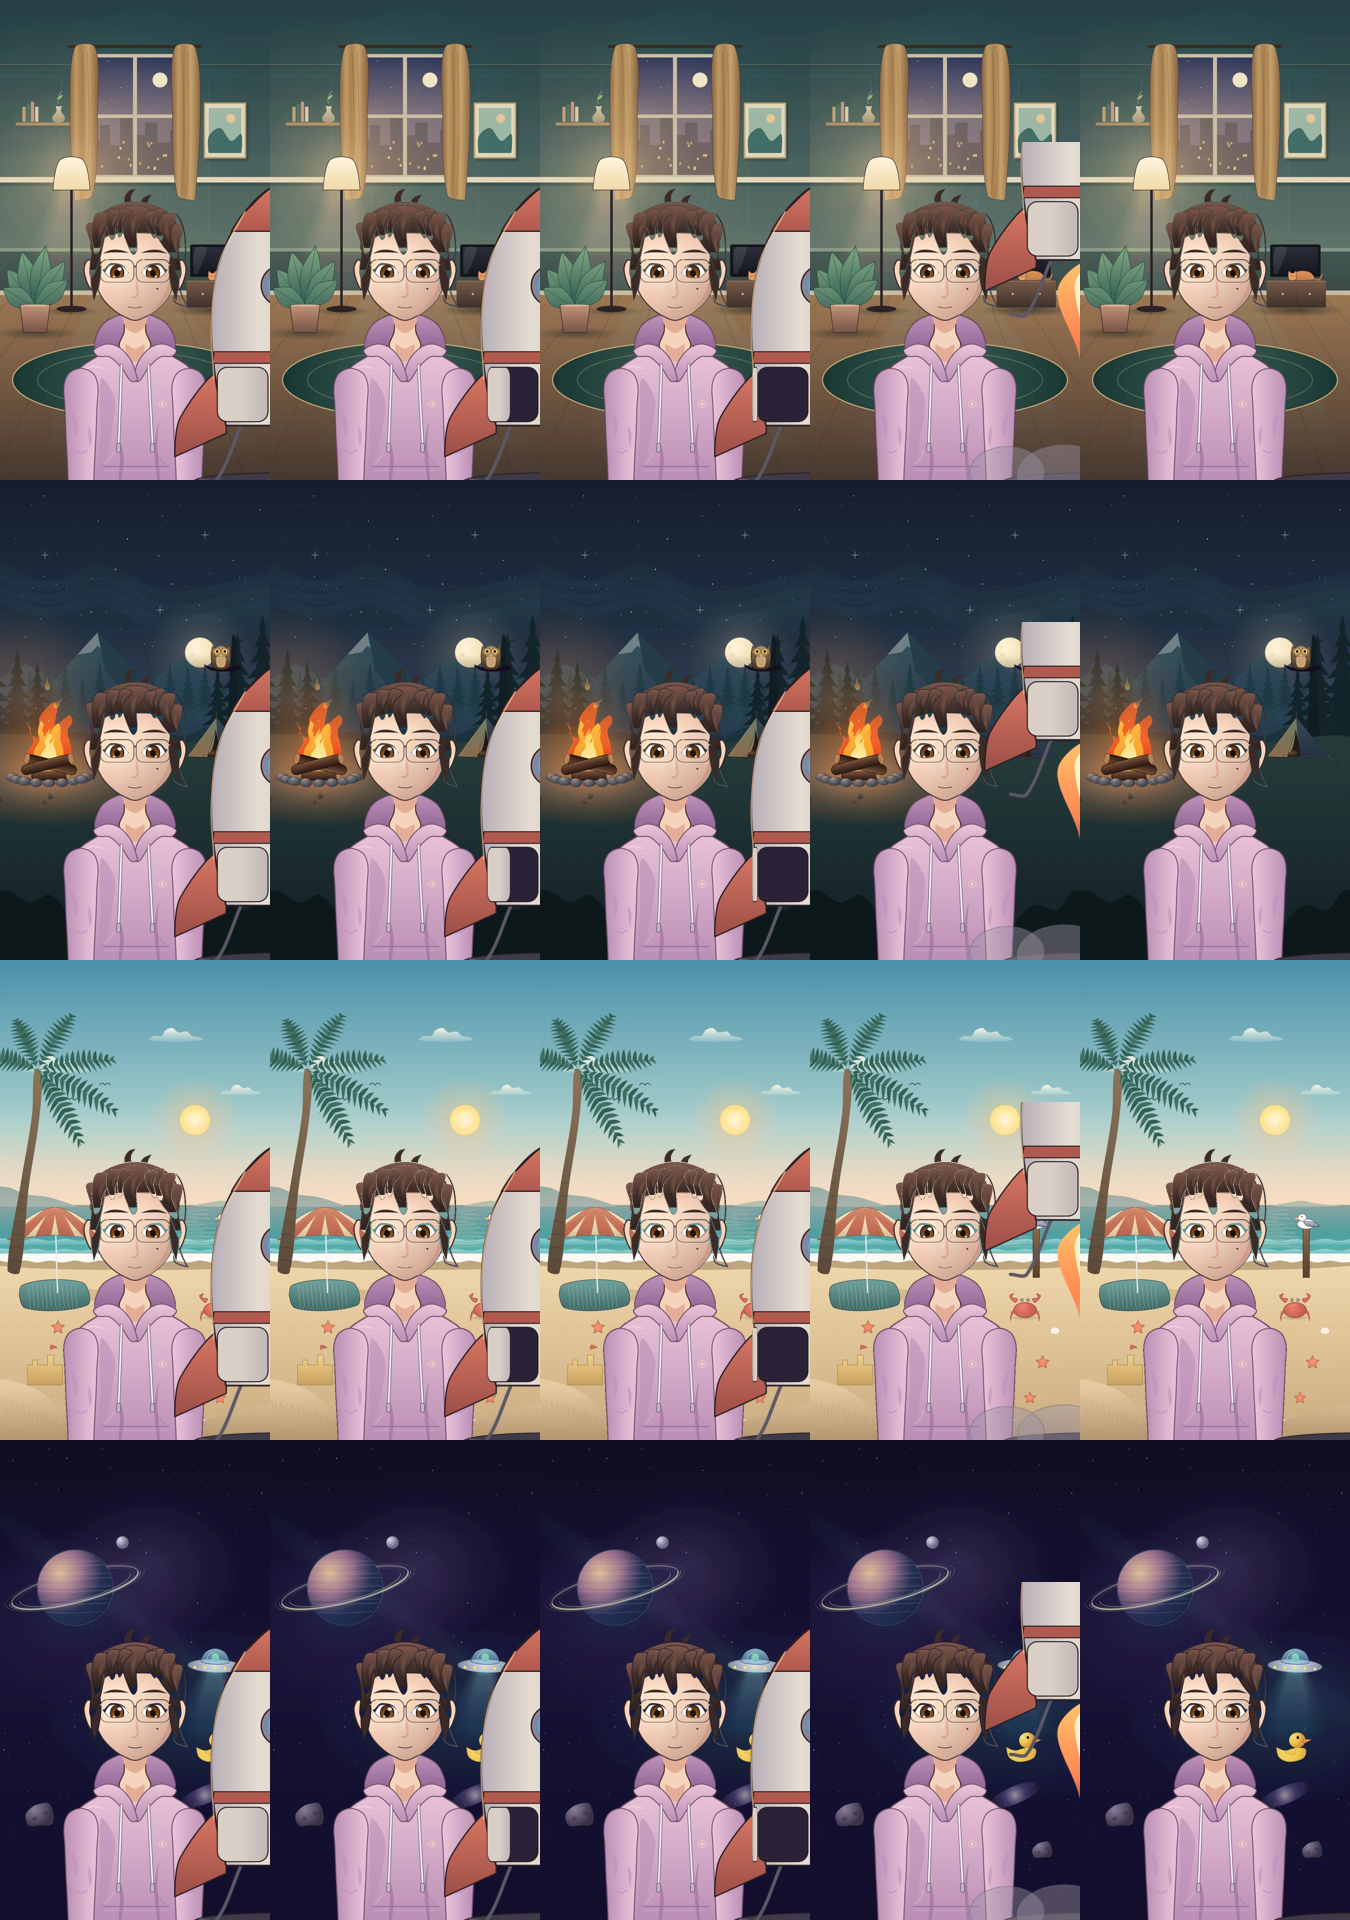
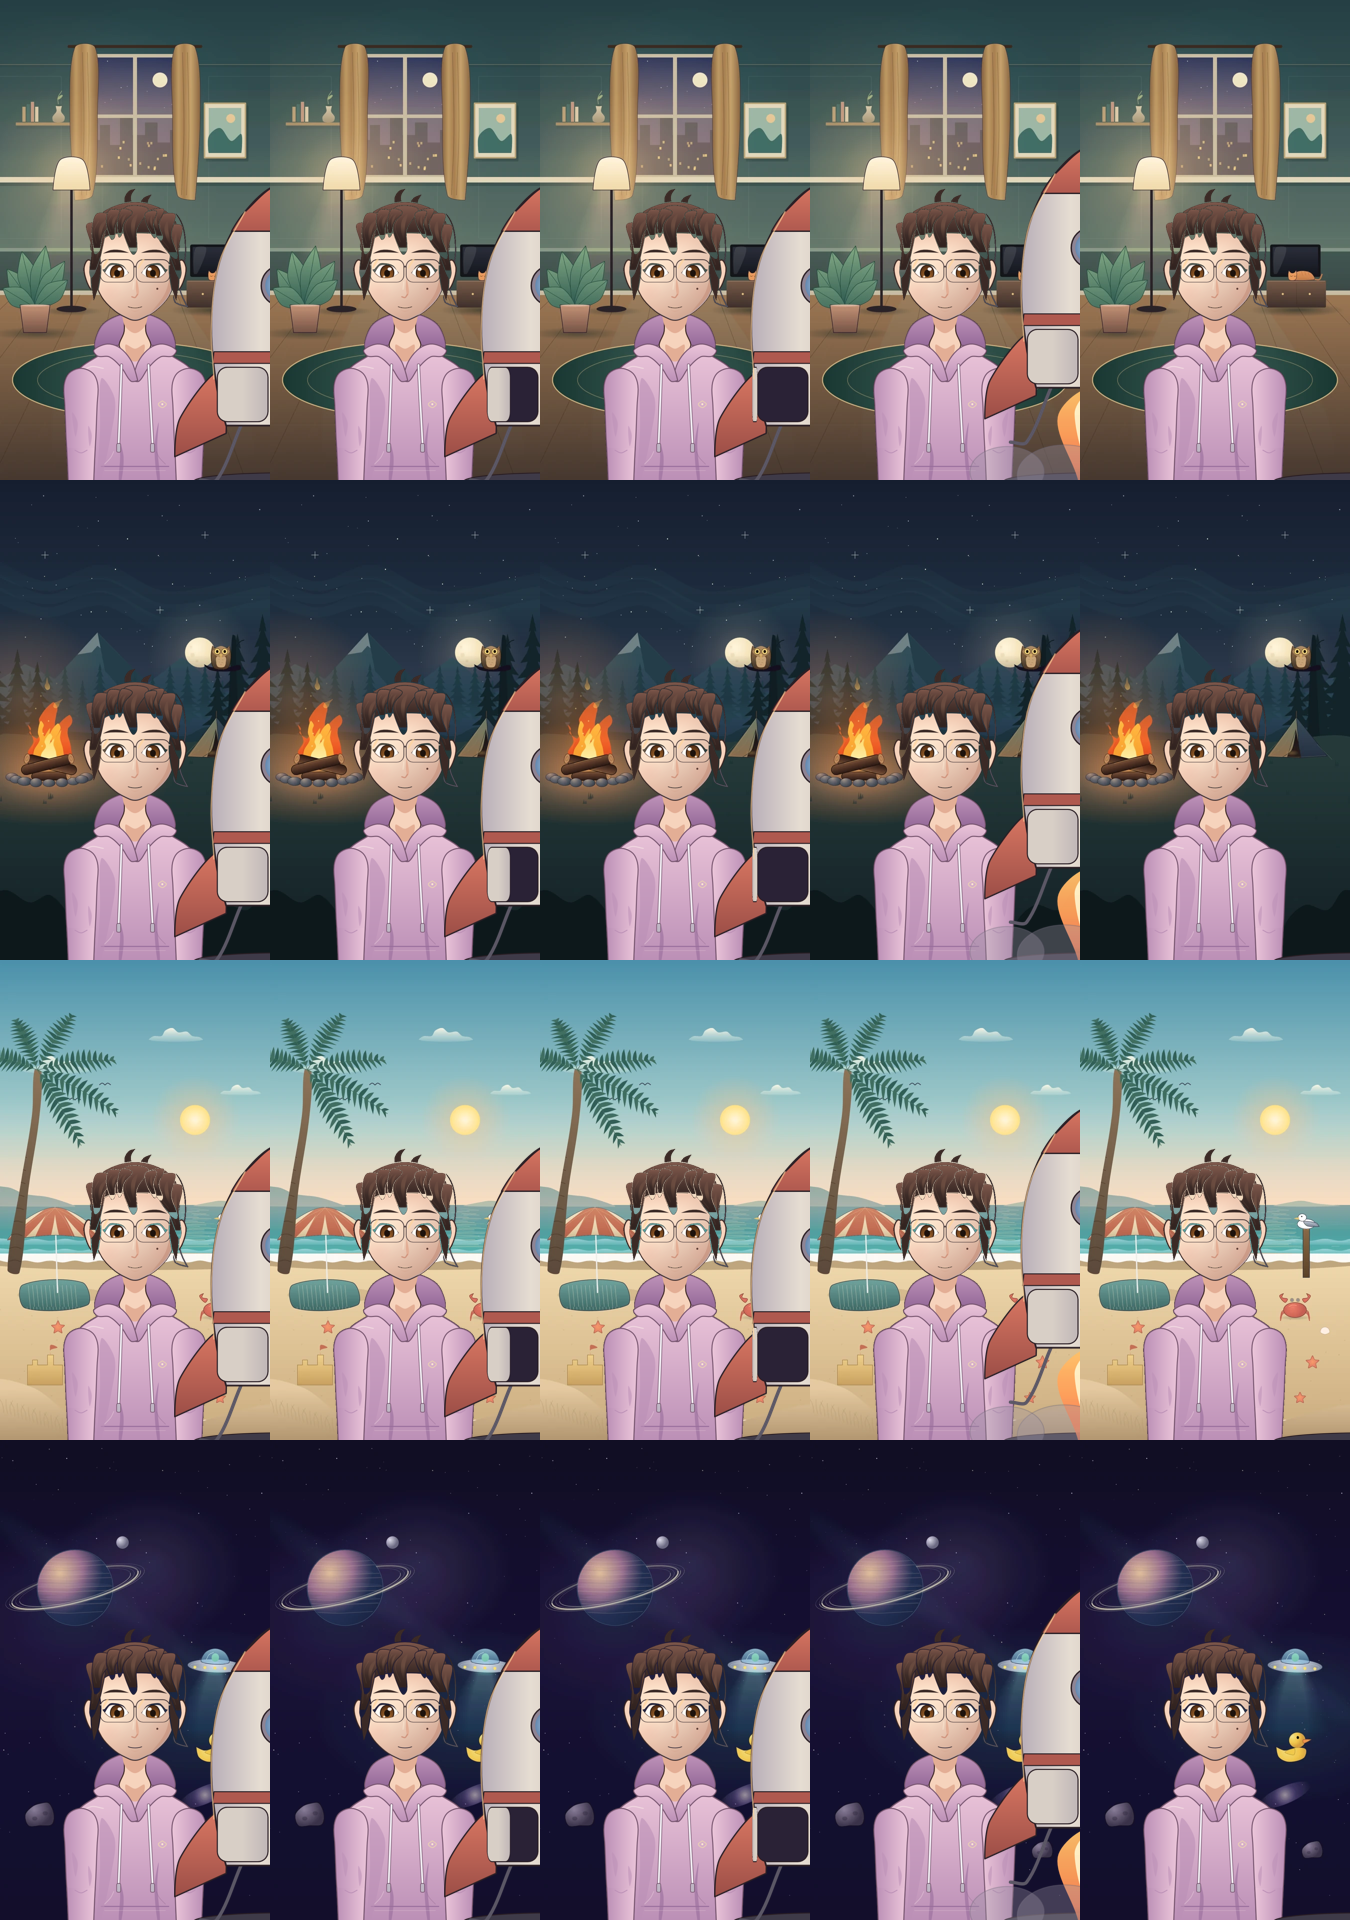
docs(m7): journey evidence after the self-check

diff --git a/rive/tools/review_journey.py b/rive/tools/review_journey.py
@@ -8,7 +8,7 @@ of `rive/journeys` over a black, then a white, full-frame backdrop added at the 
 and alpha is recovered as 1 - (white - black) / 255 (as M6's `review_diorama.FrontRenderer`).
 
 Writes (unless `--gates-only`): `<family>_strip.png` per family: open 0 / 0.5 / 1 (the rocket adds
-lift 0.35 and 1), composited over every scene's poster with the avatar's rest render, in the phone
+lift 0.08 and 1), composited over every scene's poster with the avatar's rest render, in the phone
 framing the app uses (the scene `Fit.cover`, the avatar and the journey `Fit.contain` at the
 bottom); `sheet.png` (all four strips); `gates.txt`.
 
@@ -119,7 +119,9 @@ def cover(a: np.ndarray, box: tuple[int, int, int, int] | None = None, thr: floa
 FAMILY_POSES: dict[str, list[dict[str, float]]] = {
     f: [{"open": 0.0}, {"open": 0.5}, {"open": 1.0}] for f in gen_journeys.FAMILIES
 }
-FAMILY_POSES["rocket"] += [{"open": 0.0, "lift": 0.35}, {"open": 0.0, "lift": 1.0}]
+# lift-off at 0.08: the composite pastes only the artboard box, and higher the nose leaves it (in the
+# app the unclipped artboard keeps drawing above it)
+FAMILY_POSES["rocket"] += [{"open": 0.0, "lift": 0.08}, {"open": 0.0, "lift": 1.0}]
 
 
 def gates(r: JourneyRenderer) -> list[str]:

diff --git a/rive/CRITIC_ITERATIONS.md b/rive/CRITIC_ITERATIONS.md
@@ -212,3 +212,7 @@ construction). Critics disagreed across rounds on the fringe tips and the brow b
 
 - 2026-10-30 · Task 2 `SceneFront` (rain in front of the avatar) · campfire.riv 227,517 → 243,975 B, beach.riv 256,807 → 273,016 B, posters unchanged · objective check (Sonnet, both front strips + gates): no seam or hard edge, splashes on the ground line, aligned at both sides; dry front alpha 0, travel ±50 px, loop seam 0 %, `Scene` rest frames pixel-identical to M5.
 - 2026-10-30 · Task 6 Wow #1 and #2 played by the macOS app · no asset change (capture of the real app) · objective check (Sonnet, both beat sheets + 12-frame contact sheets of both GIFs + gates): no blank or frozen frame, avatar never cut, tablet out exactly while the tool runs; noted only: the caption cross-fade overprints two sentences for one frame, two evidence crops cut the thinking bubble / leave the tablet below the frame. All 20 behaviour gates ok.
+
+## M7 self-checks (ruling 17: one line per asset or acting change, no critic rounds)
+
+- 2026-10-30 · Task 7 journey thresholds (door, path, portal, rocket) · new `journey.riv` 20,743 B (budget 160 KB), avatar and scenes untouched · objective check (Sonnet, four strips over every scene's poster + gates): no face covered, no draw-order error, path foliage covers only the shoulder; flagged the rocket's lift-off frame cut flat at the top (an evidence artifact: the composite pasted only the artboard box; pose moved to lift 0.08) and called the open door's doorway light "flat" at the frame edge (taste, kept). 14/14 gates ok.
